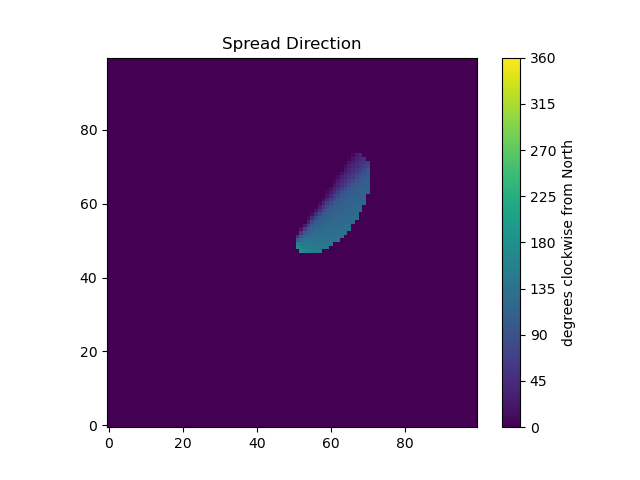
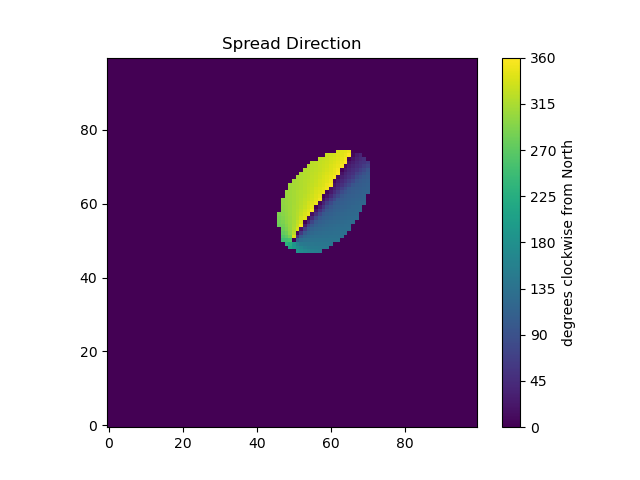
Corrected different behavior between Cython's % (e.g., C fmod) and Python's %

Changed region(s): [[0.4062, 0.3125, 0.5625, 0.5312]]

diff --git a/docs/index.html b/docs/index.html
@@ -12043,7 +12043,7 @@ Spread Rate (m/min)
 {'Min': 0.16077131, 'Max': 2.2964673, 'Mean': 1.2116312, 'Stdev': 0.6338168}
 
 Spread Direction (degrees clockwise from North)
-{'Min': -176.88382, 'Max': 175.99118, 'Mean': 36.238808, 'Stdev': 75.949234}
+{'Min': 0.12497545, 'Max': 359.51932, 'Mean': 192.26268, 'Stdev': 117.77033}
 
 Fireline Intensity (kW/m)
 {'Min': 2.277241, 'Max': 32.52825, 'Mean': 17.162119, 'Stdev': 8.977682}
@@ -12407,7 +12407,7 @@ Spread Rate (m/min)
 {'Min': 0.1605582, 'Max': 2.296455, 'Mean': 1.3731884, 'Stdev': 0.66230774}
 
 Spread Direction (degrees clockwise from North)
-{'Min': -178.7865, 'Max': 177.48085, 'Mean': 31.861712, 'Stdev': 71.49162}
+{'Min': 0.12497545, 'Max': 359.96307, 'Mean': 180.6012, 'Stdev': 125.7165}
 
 Fireline Intensity (kW/m)
 {'Min': 2.2742224, 'Max': 32.528076, 'Mean': 19.450493, 'Stdev': 9.381241}
@@ -12942,8 +12942,8 @@ Main: {'Min': 0.16077131, 'Max': 2.2964673, 'Mean': 1.20478, 'Stdev': 0.63748336
 Fork: {'Min': 0.16077131, 'Max': 2.2964673, 'Mean': 1.1882343, 'Stdev': 0.6302192}
 
 Spread Direction (degrees clockwise from North)
-Main: {'Min': -176.88382, 'Max': 178.20366, 'Mean': 37.11217, 'Stdev': 75.857666}
-Fork: {'Min': -176.88382, 'Max': 178.20366, 'Mean': 37.066925, 'Stdev': 76.436516}
+Main: {'Min': 0.12497545, 'Max': 359.51932, 'Mean': 191.53839, 'Stdev': 117.237366}
+Fork: {'Min': 0.12497545, 'Max': 359.51932, 'Mean': 193.54515, 'Stdev': 116.56749}
 
 Fireline Intensity (kW/m)
 Main: {'Min': 2.277241, 'Max': 32.52825, 'Mean': 17.065073, 'Stdev': 9.029617}
@@ -13568,7 +13568,7 @@ Fork: {'Min': 2081.852, 'Max': 2789.6057, 'Mean': 2539.8635, 'Stdev': 171.96436}
     <span class="org-doc">"""Convert cartesian coordinates (x, y) to polar coordinates (r, theta)."""</span>
     <span class="org-variable-name">r</span>        : cy.<span class="org-builtin">float</span> <span class="org-operator">=</span> sqrt(x <span class="org-operator">*</span> x <span class="org-operator">+</span> y <span class="org-operator">*</span> y)
     <span class="org-variable-name">theta_rad</span>: cy.<span class="org-builtin">float</span> <span class="org-operator">=</span> atan2(y, x)
-    <span class="org-variable-name">theta</span>    : cy.<span class="org-builtin">float</span> <span class="org-operator">=</span> rad_to_deg(theta_rad) <span class="org-operator">%</span> 360.0
+    <span class="org-variable-name">theta</span>    : cy.<span class="org-builtin">float</span> <span class="org-operator">=</span> (rad_to_deg(theta_rad) <span class="org-operator">+</span> 360.0) <span class="org-operator">%</span> 360.0
     <span class="org-keyword">return</span> (r, theta)
 
 
@@ -13589,7 +13589,7 @@ Fork: {'Min': 2081.852, 'Max': 2789.6057, 'Mean': 2539.8635, 'Stdev': 171.96436}
     <span class="org-doc">"""Convert cartesian coordinates (x, y) to azimuthal coordinates (r, azimuth)."""</span>
     <span class="org-variable-name">r</span>          : cy.<span class="org-builtin">float</span> <span class="org-operator">=</span> sqrt(x <span class="org-operator">*</span> x <span class="org-operator">+</span> y <span class="org-operator">*</span> y)
     <span class="org-variable-name">azimuth_rad</span>: cy.<span class="org-builtin">float</span> <span class="org-operator">=</span> atan2(x, y)
-    <span class="org-variable-name">azimuth</span>    : cy.<span class="org-builtin">float</span> <span class="org-operator">=</span> rad_to_deg(azimuth_rad) <span class="org-operator">%</span> 360.0
+    <span class="org-variable-name">azimuth</span>    : cy.<span class="org-builtin">float</span> <span class="org-operator">=</span> (rad_to_deg(azimuth_rad) <span class="org-operator">+</span> 360.0) <span class="org-operator">%</span> 360.0
     <span class="org-keyword">return</span> (r, azimuth)
 
 

diff --git a/src/pyretechnics/conversion.py b/src/pyretechnics/conversion.py
@@ -352,7 +352,7 @@ def cartesian_to_polar(x: cy.float, y: cy.float) -> vec_xy:
     """Convert cartesian coordinates (x, y) to polar coordinates (r, theta)."""
     r        : cy.float = sqrt(x * x + y * y)
     theta_rad: cy.float = atan2(y, x)
-    theta    : cy.float = rad_to_deg(theta_rad) % 360.0
+    theta    : cy.float = (rad_to_deg(theta_rad) + 360.0) % 360.0
     return (r, theta)
 
 
@@ -373,7 +373,7 @@ def cartesian_to_azimuthal(x: cy.float, y: cy.float) -> vec_xy:
     """Convert cartesian coordinates (x, y) to azimuthal coordinates (r, azimuth)."""
     r          : cy.float = sqrt(x * x + y * y)
     azimuth_rad: cy.float = atan2(x, y)
-    azimuth    : cy.float = rad_to_deg(azimuth_rad) % 360.0
+    azimuth    : cy.float = (rad_to_deg(azimuth_rad) + 360.0) % 360.0
     return (r, azimuth)
 
 
